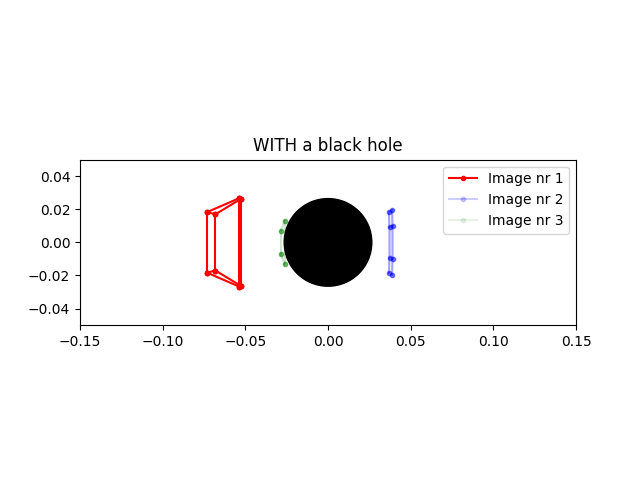
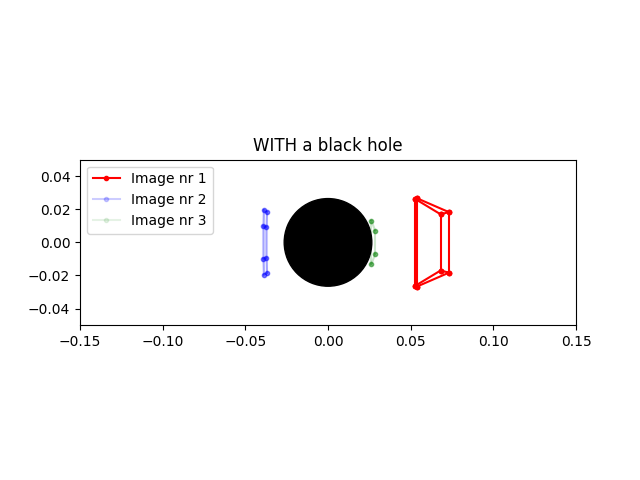
Updated tutorials and fixed bug with the camera.

Changed region(s): [[0.5625, 0.3438, 0.9062, 0.625], [0.125, 0.3438, 0.4688, 0.5938]]

diff --git a/curvedpy/geodesics/blackhole_integrators/schwarzschild/schwarzschild_geodesic.py b/curvedpy/geodesics/blackhole_integrators/schwarzschild/schwarzschild_geodesic.py
@@ -7,7 +7,7 @@ import time
 from curvedpy.utils.conversions import Conversions
 #from curvedpy.utils.coordinates_LPN import coordinates_LPN
 
-from curvedpy.utils.coordinates_LPN import unit_vectors_lpn_no_vec, matrix_conversion_lpn_xyz_no_vec
+from curvedpy.utils.coordinates_LPN import unit_vectors_lpn_no_vec, unit_vectors_lpn, matrix_conversion_lpn_xyz_no_vec, matrix_conversion_lpn_xyz
 
 # -------------------------------
 # ----NAMING CONVENTIONS USED----
@@ -100,6 +100,45 @@ class IntegratorSchwarzschildSPH2D:
                         first_step, phi_end) for i in range(len(x0_xyz))]
 
 
+
+    ################################################################################################
+    # VECTORIZED ----- WORKING ON THIS 7 AUG 2025
+    ################################################################################################
+    def calc_trajectory_vec(self,   k0_xyz, x0_xyz, \
+                                R_end, curve_start, curve_end, nr_points_curve, \
+                                max_step, first_step, phi_end\
+                        ):
+        ''' k0_xyz and x_xyz must have shape (n,3)'''
+
+        if not isinstance(k0_xyz, np.ndarray): k0_xyz = np.array(k0_xyz)
+        if not isinstance(x0_xyz, np.ndarray): x0_xyz = np.array(x0_xyz)
+
+
+        if k0_xyz.shape != x0_xyz.shape:
+            print("k and x are not the same shape")
+            return
+
+        if k0_xyz.ndim == 1:
+            if k0_xyz.shape[0] != 3 or x0_xyz.shape[0] != 3:
+                print("k or x do not have 3 components")
+                return
+            k0_xyz = k0_xyz.reshape(1,3)
+            x0_xyz = x0_xyz.reshape(1,3)
+
+        else:
+            if k0_xyz.shape[1] != 3 or x0_xyz.shape[1] != 3:
+                print("k or x do not have 3 components")
+                return
+
+
+        return self.calc_trajectory_xyz_vec(k0_xyz, x0_xyz, R_end,\
+                        curve_start, \
+                        curve_end, \
+                        nr_points_curve, \
+                        max_step,\
+                        first_step, phi_end)
+
+
     ################################################################################################
     #
     ################################################################################################
@@ -158,6 +197,158 @@ class IntegratorSchwarzschildSPH2D:
         # result.update({"k4_xyz": k4_xyz, "x4_xyz": x4_xyz})
 
         return k_xyz, x_xyz, result
+
+
+    ################################################################################################
+    # VECTORIZED ----- WORKING ON THIS 7 AUG 2025
+    ################################################################################################
+    def calc_trajectory_xyz_vec(self, \
+                        k0_xyz, x0_xyz, \
+                        R_end,\
+                        curve_start, \
+                        curve_end, \
+                        nr_points_curve, \
+                        max_step,\
+                        first_step,\
+                        phi_end
+                       ):
+        ''' k0_xyz and x_xyz must have shape (n,3)'''
+
+        if not isinstance(x0_xyz,np.ndarray):
+            x0_xyz = np.array(x0_xyz)
+
+        if not isinstance(k0_xyz,np.ndarray):
+            k0_xyz = np.array(k0_xyz)
+
+        # If p==0 (better x.dot(k)==0) we have a singular transformation matrix, since the 
+        # basis vector for p is arbitrary and not restricted. This is when the
+        # ray is directed precisely at the center of the BH
+        # l==0 is no problem, since we take the direction k of the ray 
+        # to define the unit vector in the l direction
+        # if np.any((x0_lp.T)[1] == 0.0): print("SINGULAR", (x0_lp.T)[1] == 0.0)
+        # CONVERT TO LPN COORDINATES
+        l_hat, p_hat, n_hat = unit_vectors_lpn(k0_xyz, x0_xyz)
+        M_xyz_lpn, M_lpn_xyz = matrix_conversion_lpn_xyz(l_hat, p_hat, n_hat)
+
+        print("cbju", x0_xyz.shape)
+
+        x0_lpn = np.einsum('bij,bj->bi', M_xyz_lpn, x0_xyz)
+        x0_lpn.T[2] = 0.
+        k0_lpn = np.einsum('bij,bj->bi', M_xyz_lpn, k0_xyz)
+
+
+        # CONVERT TO 2D SPHERICAL COORDINATES
+        x0_sph, k0_sph = self.conversions.convert_xyz_to_sph(x0_lpn, k0_lpn, vec=True)#x0_xyz, k0_xyz)
+
+        l_k_sph, l_x_sph, l_result = self.calc_trajectory_sph_vec(\
+                        k0_sph, x0_sph, \
+                        R_end,\
+                        curve_start, \
+                        curve_end, \
+                        nr_points_curve, \
+                        max_step,\
+                        first_step,\
+                       )
+
+        
+        _list = [self.conversions.convert_sph_to_xyz(l_x_sph[i].T, l_k_sph[i].T, vec=True) for i in range(len(l_k_sph))]
+        l_x_lpn, l_k_lpn = zip(*_list)
+        
+        print("adsd", len(l_x_lpn), l_x_lpn[0].shape, len(M_lpn_xyz))
+
+        ### HIER GEEINDIGD MET VECTORIZEREN dit nog niet getest!!! 7 AUG 2025
+        l_k_xyz = [np.einsum('ij,bj->bi', M_lpn_xyz[i], l_k_lpn[i]) for i in range(len(l_k_lpn))]
+        # k_xyz = np.array([M_lpn_xyz@k_i for k_i in k_lpn.T]).T
+        l_x_xyz = [np.einsum('ij,bj->bi', M_lpn_xyz[i], l_x_lpn[i]) for i in range(len(l_x_lpn))]
+        # x_xyz = np.array([M_lpn_xyz@x_i for x_i in x_lpn.T]).T
+
+        return l_k_xyz, l_x_xyz, l_result
+
+
+    ################################################################################################
+    # VECTORIZED ----- WORKING ON THIS 7 AUG 2025
+    ################################################################################################
+    def calc_trajectory_sph_vec(self, \
+                        k0_sph, x0_sph, \
+                        R_end,\
+                        curve_start, \
+                        curve_end, \
+                        nr_points_curve, \
+                        max_step,\
+                        first_step,\
+                        phi_end=False\
+                       ):
+
+        print("debuug", k0_sph.shape)
+
+        k_r_0, k_th_0, k_ph_0 = k0_sph.T
+        r0, th0, ph0 = x0_sph.T
+
+
+        # Calculate k_t from norm of starting condition
+        t0 = np.full(r0.shape, 0.)
+        k_t_0 = self.metric.k_t_from_norm_lamb(k_r_0, k_ph_0, t0, r0, ph0)
+
+        print("ddd", k_t_0.shape, k_r_0.shape, t0.shape, r0.shape, th0.shape, ph0.shape)
+
+        k_0 = np.array([k_t_0, k_r_0, k_ph_0]).T
+        x_0 = np.array([t0, r0, ph0]).T
+
+        print('sadf0', k_0.shape, x_0.shape)
+
+        #Check if starting values are outside the blackhole
+        if np.all(r0 < self.metric.get_r_s()):
+            print("Starting value inside blackhole")
+            return
+
+        def hit_blackhole(t, y): 
+            eps = 0.01
+            k_t, k_r, k_ph, t, r, ph = y
+            # r = x_1#calc_radius_from_x_mu(x_0, x_1, x_2, x_3)
+            return r - (self.metric.get_r_s()+eps)
+
+        if R_end == -1: R_end = np.inf
+        #elif R_end < r0: R_end = r0*1.01
+        def stop_integration(t, y): 
+            k_t, k_r, k_ph, t, r, ph = y
+            if phi_end:
+                return ph-phi_end
+            else:
+                # r = x_1 #calc_radius_from_x_mu(x_0, x_1, x_2, x_3)
+                return r - R_end
+
+        # result = self.integrator.integrate(\
+        #                 k_0, x_0, self.metric.get_dk, hit_blackhole, \
+        #                 stop_integration,\
+        #                 curve_start, curve_end, nr_points_curve, \
+        #                 max_step, first_step, \
+        #                 verbose = self.verbose )
+
+        l_k_sph, l_x_sph, l_result = [], [], []
+        for i in range(len(k_0)):
+            res = self.integrator.integrate(\
+                            k_0[i], x_0[i], self.metric.get_dk, hit_blackhole, \
+                            stop_integration,\
+                            curve_start, curve_end, nr_points_curve, \
+                            max_step, first_step, \
+                            verbose = self.verbose )
+
+            k_t, k_r, k_ph, t, r, ph = res.y
+            lamb = res.t
+
+            k_th = np.full(k_r.shape, 0.0)
+            th = np.full(r.shape, 1/2*np.pi)
+
+            l_k_sph.append( np.array([k_r, k_th, k_ph]) )
+            l_x_sph.append( np.array([r, th, ph]) )
+
+            k4_sph = np.array([k_t, k_r, k_th, k_ph])
+            x4_sph = np.array([t, r, th, ph])
+            res.update({"k4_sph": k4_sph, "x4_sph": x4_sph})
+
+            l_result.append(res)
+
+        return l_k_sph, l_x_sph, l_result
 
     ################################################################################################
     #
@@ -225,7 +416,6 @@ class IntegratorSchwarzschildSPH2D:
         result.update({"k4_sph": k4_sph, "x4_sph": x4_sph})
 
         return k_sph, x_sph, result
-
 
 
 

diff --git a/curvedpy/utils/conversions.py b/curvedpy/utils/conversions.py
@@ -109,11 +109,17 @@ class Conversions:
     ##################################################################
     # XYZ - SPHERICAL
     ##################################################################
-    def convert_xyz_to_sph(self, x_xyz, k_xyz):
+    def convert_xyz_to_sph(self, x_xyz, k_xyz, vec=False):
+        if vec: 
+            x_xyz = x_xyz.T
+            k_xyz = k_xyz.T
         v_sph = self.coord_conversion_xyz_to_sph(*x_xyz)
         k_sph = self.convert_k_xyz_to_k_sph(*x_xyz, *k_xyz)
         k_sph = k_sph.reshape(*k_xyz.shape)
-        return v_sph, k_sph
+        if vec:
+            return v_sph.T, k_sph.T
+        else:
+            return v_sph, k_sph
 
     def coord_conversion_xyz_to_sph(self, x, y, z):
         r = np.sqrt(x**2 + y**2 + z**2)

diff --git a/curvedpy/geodesics/pointpoint.py b/curvedpy/geodesics/pointpoint.py
@@ -309,12 +309,15 @@ class BlackholeGeodesicPointPointIntegrator:
         k0_lpn = l_k[-1].T[0]
 
 
+        if secondary_image:
+            x_f_lpn_use[1] = -x_f_lpn_use[1]
+            
+
         x_final = l_x[-1].T
         length = sum([np.linalg.norm(x_final[i+1]-x_final[i]) for i in range(len(x_final)-1)])
         length += np.linalg.norm(x_f_lpn_use-x_final[-1])
 
-        if secondary_image:
-            x_f_lpn_use[1] = -x_f_lpn_use[1]
+
         translation_lpn = x0_lpn + k0_lpn/np.linalg.norm(k0_lpn) * length - x_f_lpn_use#l_x[-1].T[-1]
 
         if debug:

diff --git a/curvedpy/rendering/polygon/toy_vertex_shader.py b/curvedpy/rendering/polygon/toy_vertex_shader.py
@@ -93,7 +93,7 @@ class CurvedVertexShader():
         v = look_at-cam_loc
         v = v/np.linalg.norm(v)
         # Vector in the normal plane of v
-        n = np.cross(v, up)
+        n = np.cross(up, v)#v, up)
         n = n/np.linalg.norm(n)
         # Vector in the up direction and ortho to v and n
         u = np.cross(n, v)
